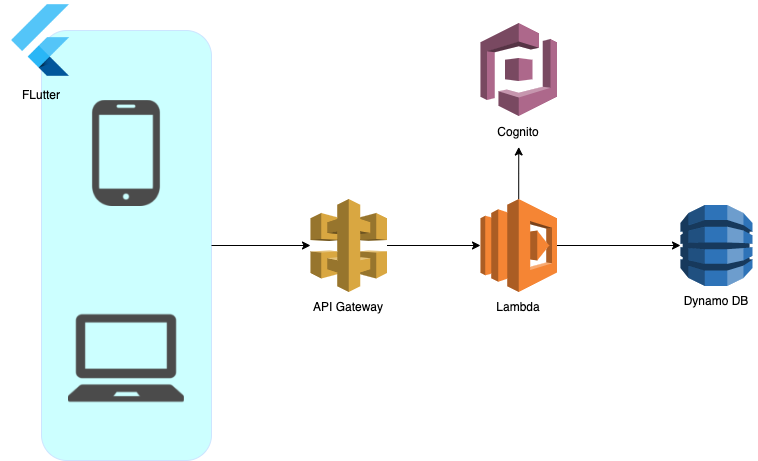
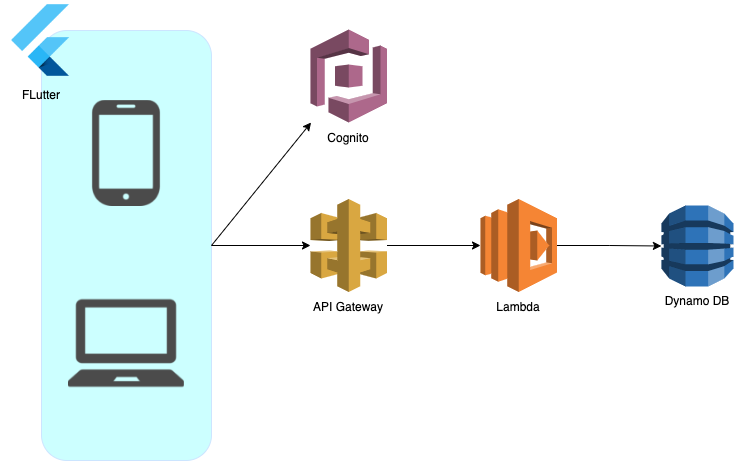
fix: update: readme

diff --git a/README.md b/README.md
@@ -48,3 +48,6 @@
 * [AWS Lambda+API Gateway+DynamoDBでCRUD APIを作るのをGolangでやってみた](https://qiita.com/saki-engineering/items/e5cf56301d94ceea3ce0)
 * [Cognito でサインアップしたユーザーの情報を DynamoDB に保存するには？](https://zenn.dev/tatsurom/articles/cognito-data-to-dynamodb)
 * [Providerで状態管理](https://www.flutter-study.dev/firebase-app/provider)
++ [Cognito ↔ API Gateway ↔ Lambda ↔ DynamoDB](https://qiita.com/narutaro/items/adaf160d944b91791b59)
+* [プログラミングせずにCognitoで新規ユーザー登録＆サインインを試してみる](https://dev.classmethod.jp/articles/sign-up-and-sign-in-by-cognito-with-awscli/)
+* [FlutterとAmazon Cognitoでログイン機能を実装してみた](https://dev.classmethod.jp/articles/flutter-cognito/)

diff --git a/memo.md b/memo.md
@@ -1,0 +1,14 @@
+## AWS CLIからCognito
+### サインアップ
+```bash
+aws cognito-idp sign-up --client-id ${CLIENT_ID} --username ${USER_EMAIL} --password ${PASSWORD} --user-attribute "Name=email,Value=${USER_EMAIL}"
+```
+
+### のサインイン
+```bash
+aws cognito-idp admin-initiate-auth --user-pool-id ${USER_POOL_ID} --client-id ${CLIENT_ID} --auth-flow ADMIN_NO_SRP_AUTH --auth-parameters "USERNAME=${USER_EMAIL},PASSWORD=${PASSWORD}"
+```
+```bash
+aws cognito-idp admin-initiate-auth --user-pool-id ${USER_POOL_ID} --client-id ${CLIENT_ID} --auth-flow ADMIN_USER_PASSWORD_AUTH --auth-parameters USERNAME=${USER_EMAIL},PASSWORD=${PASSWORD} --region ap-northeast-1
+```
+
